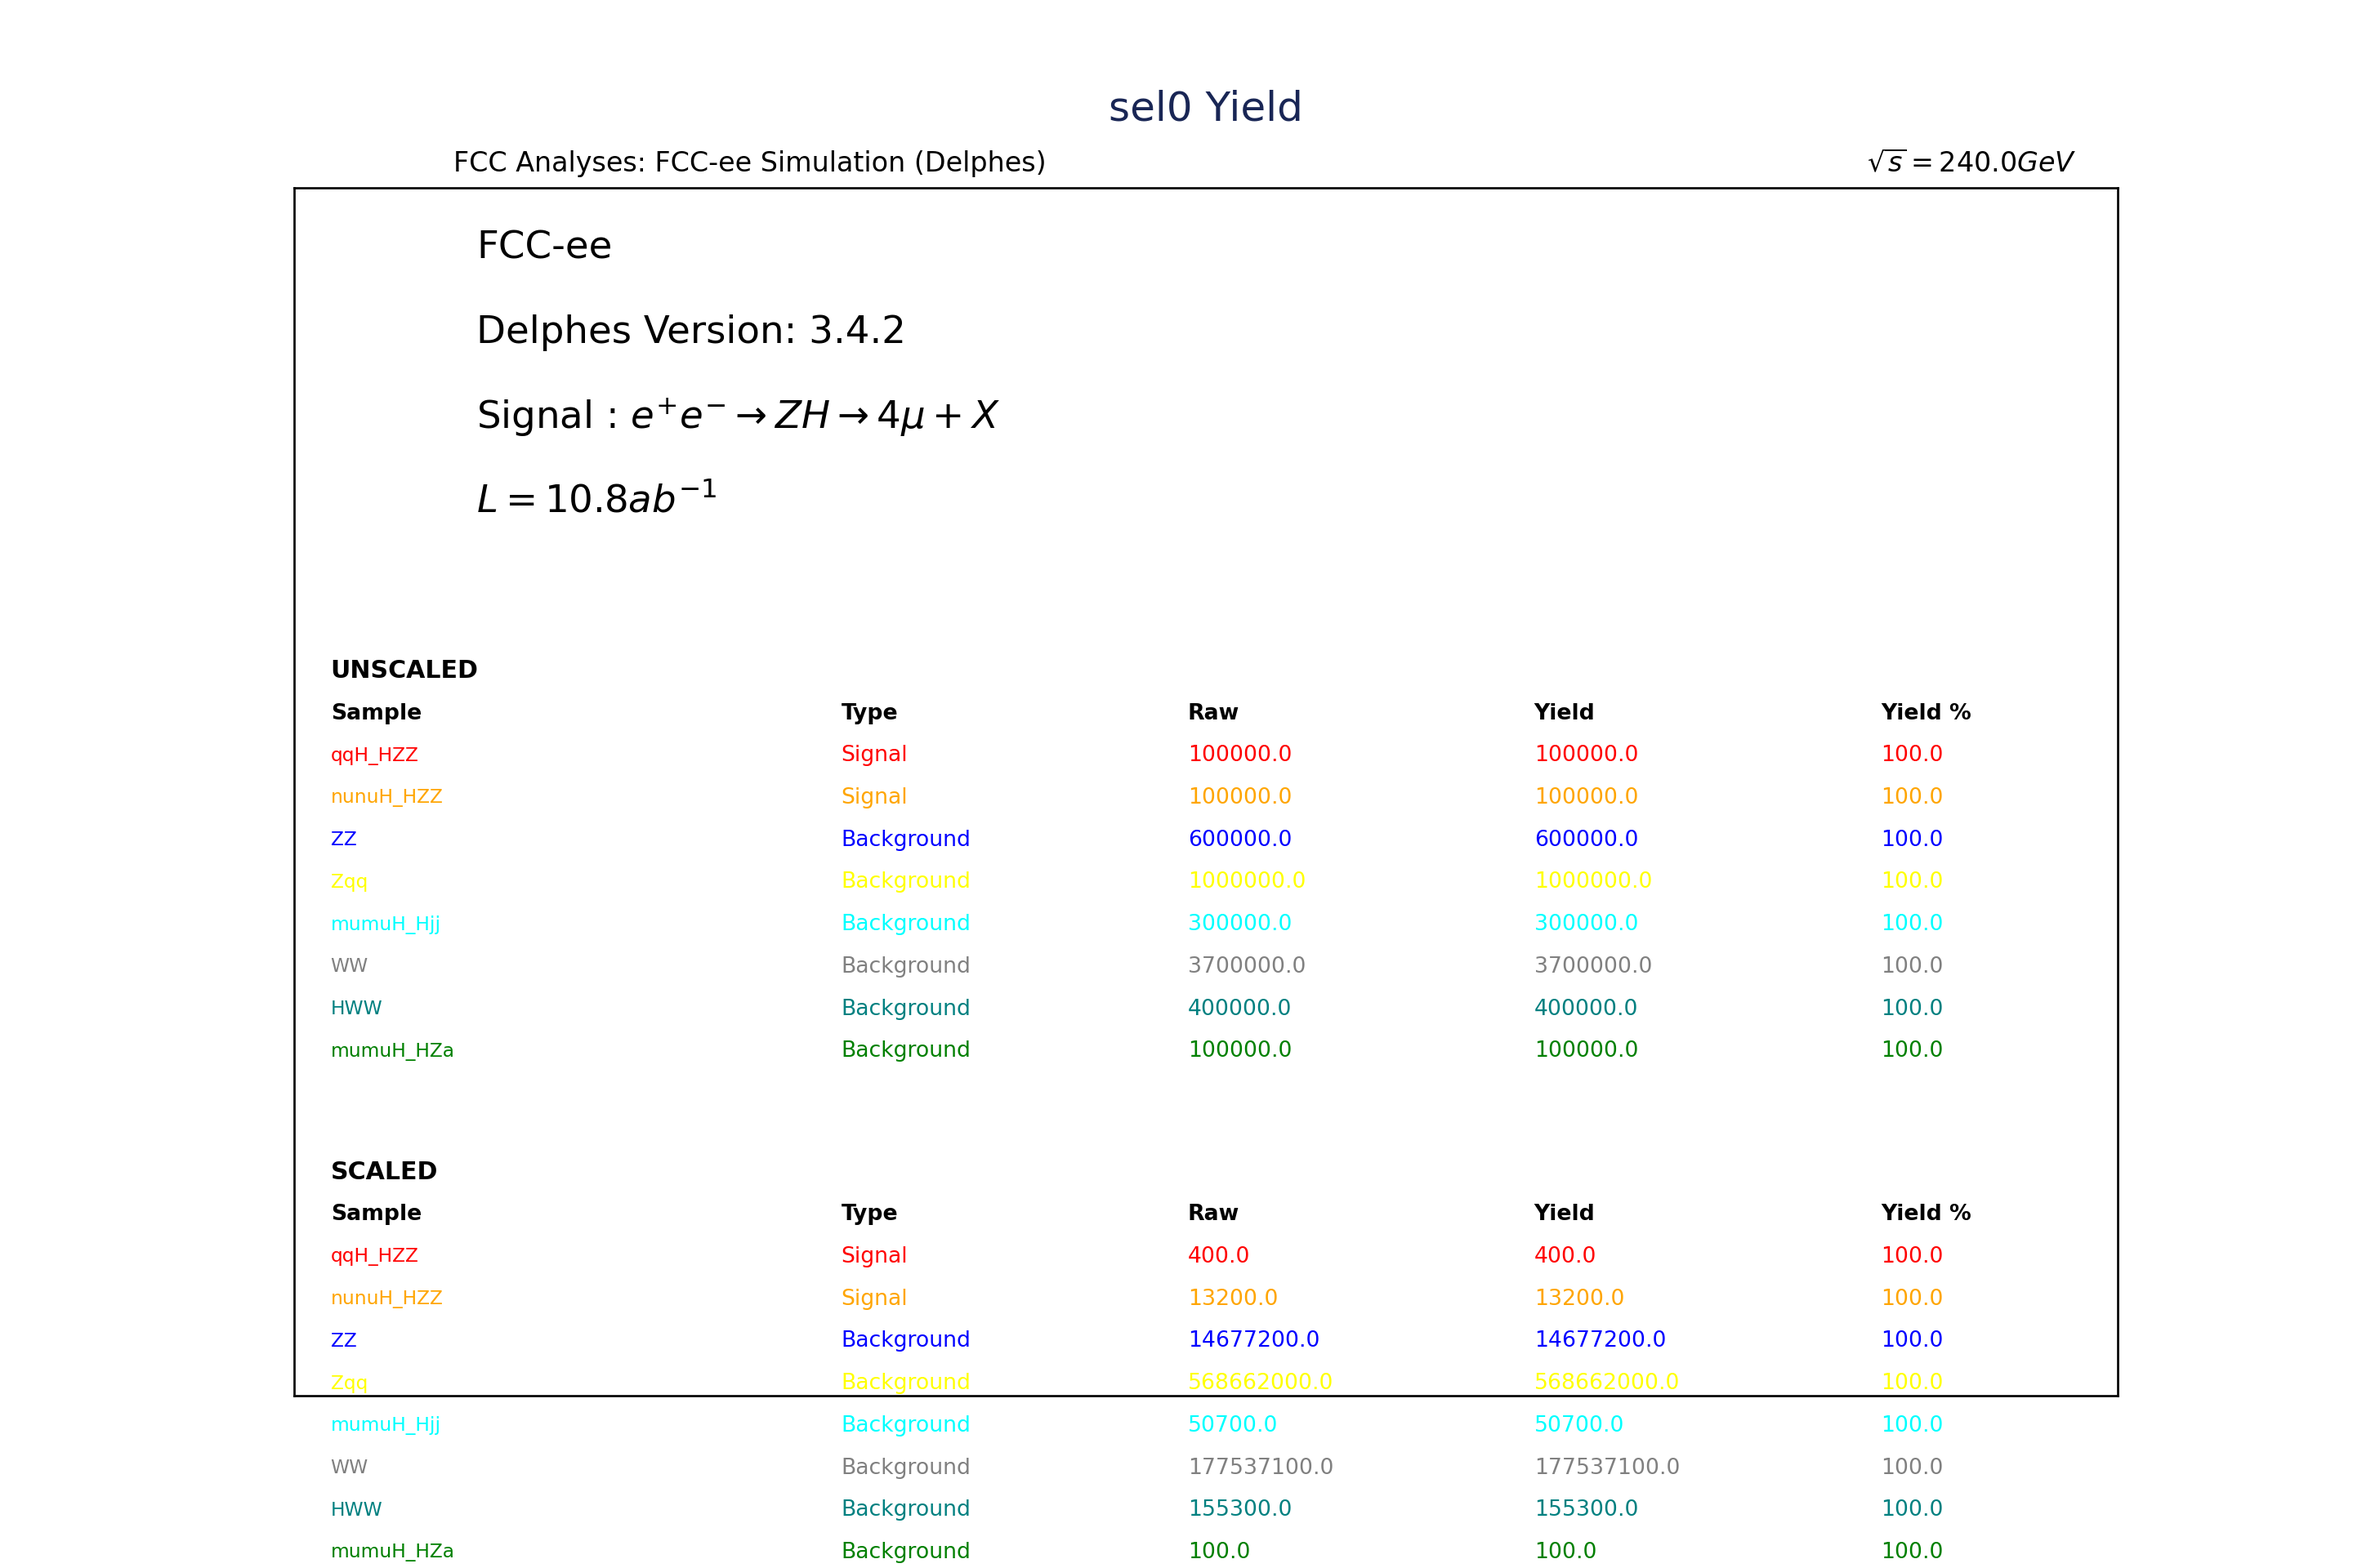
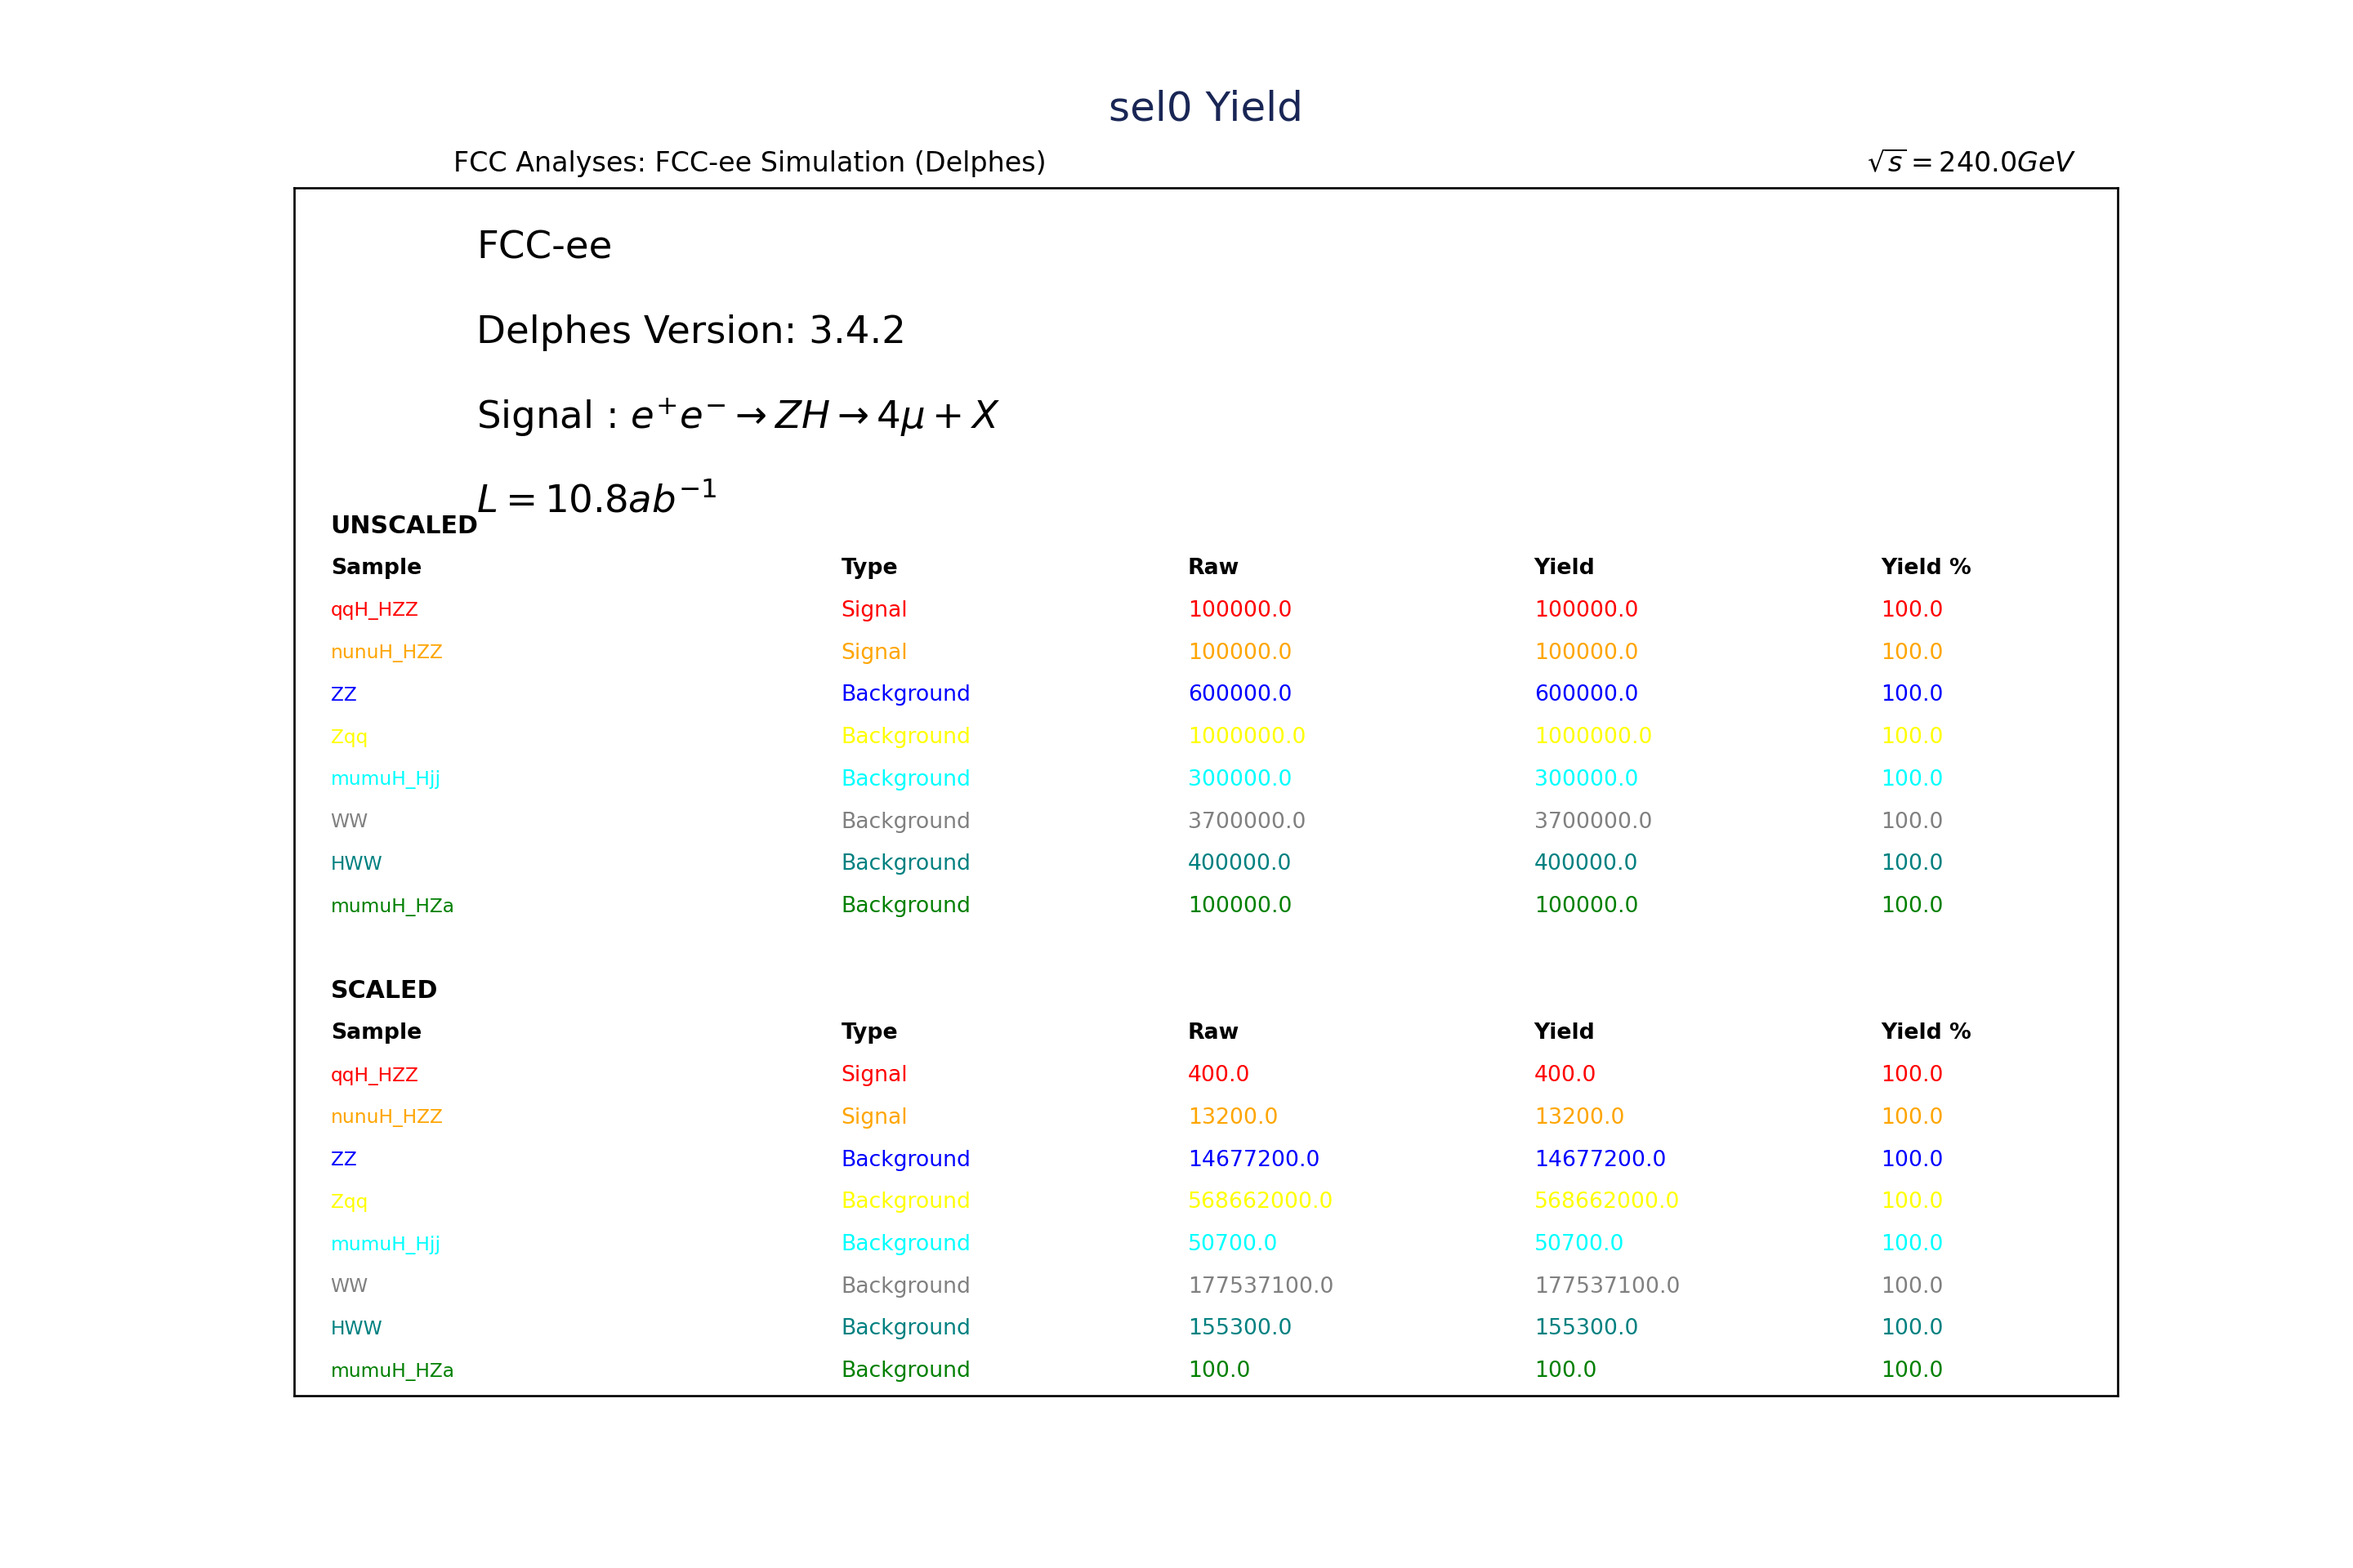
Decreased font size in the yeild plots

diff --git a/examples/FCCee/higgs/4leptons/plotter.py b/examples/FCCee/higgs/4leptons/plotter.py
@@ -83,7 +83,7 @@ def yield_plot(name, title, keys, scaled, unscaled, formats, path, plot_width=8,
     ax.text(0.10, 0.74, '$L = '+str(intLumi/1e6)+' ab^{-1}$', fontsize=14, horizontalalignment='left', verticalalignment='center', transform=ax.transAxes)
 
     table_scale = 0.7
-    level, linespacing = 0.60, 0.05
+    level, linespacing = 0.72, 0.05
     for scale,obs in zip(['UNSCALED','SCALED'],[unscaled,scaled]):
         ax.text(0.02, level, scale, weight='bold', fontsize=int(13*table_scale), horizontalalignment='left', verticalalignment='center', transform=ax.transAxes)
         level -= linespacing*table_scale
@@ -105,7 +105,7 @@ def yield_plot(name, title, keys, scaled, unscaled, formats, path, plot_width=8,
             ax.text(0.49, level, raw_text, color=color, fontsize=int(12*table_scale), horizontalalignment='left', verticalalignment='center', transform=ax.transAxes)
             ax.text(0.68, level, yield_text, color=color, fontsize=int(12*table_scale), horizontalalignment='left', verticalalignment='center', transform=ax.transAxes)
             ax.text(0.87, level, percentage, color=color, fontsize=int(12*table_scale), horizontalalignment='left', verticalalignment='center', transform=ax.transAxes)
-        level -= 2*linespacing
+        level -= 2*linespacing*table_scale
 
     ax.set_title(title,pad=25,  fontsize= "15", color="#192655")
     for format in formats :
